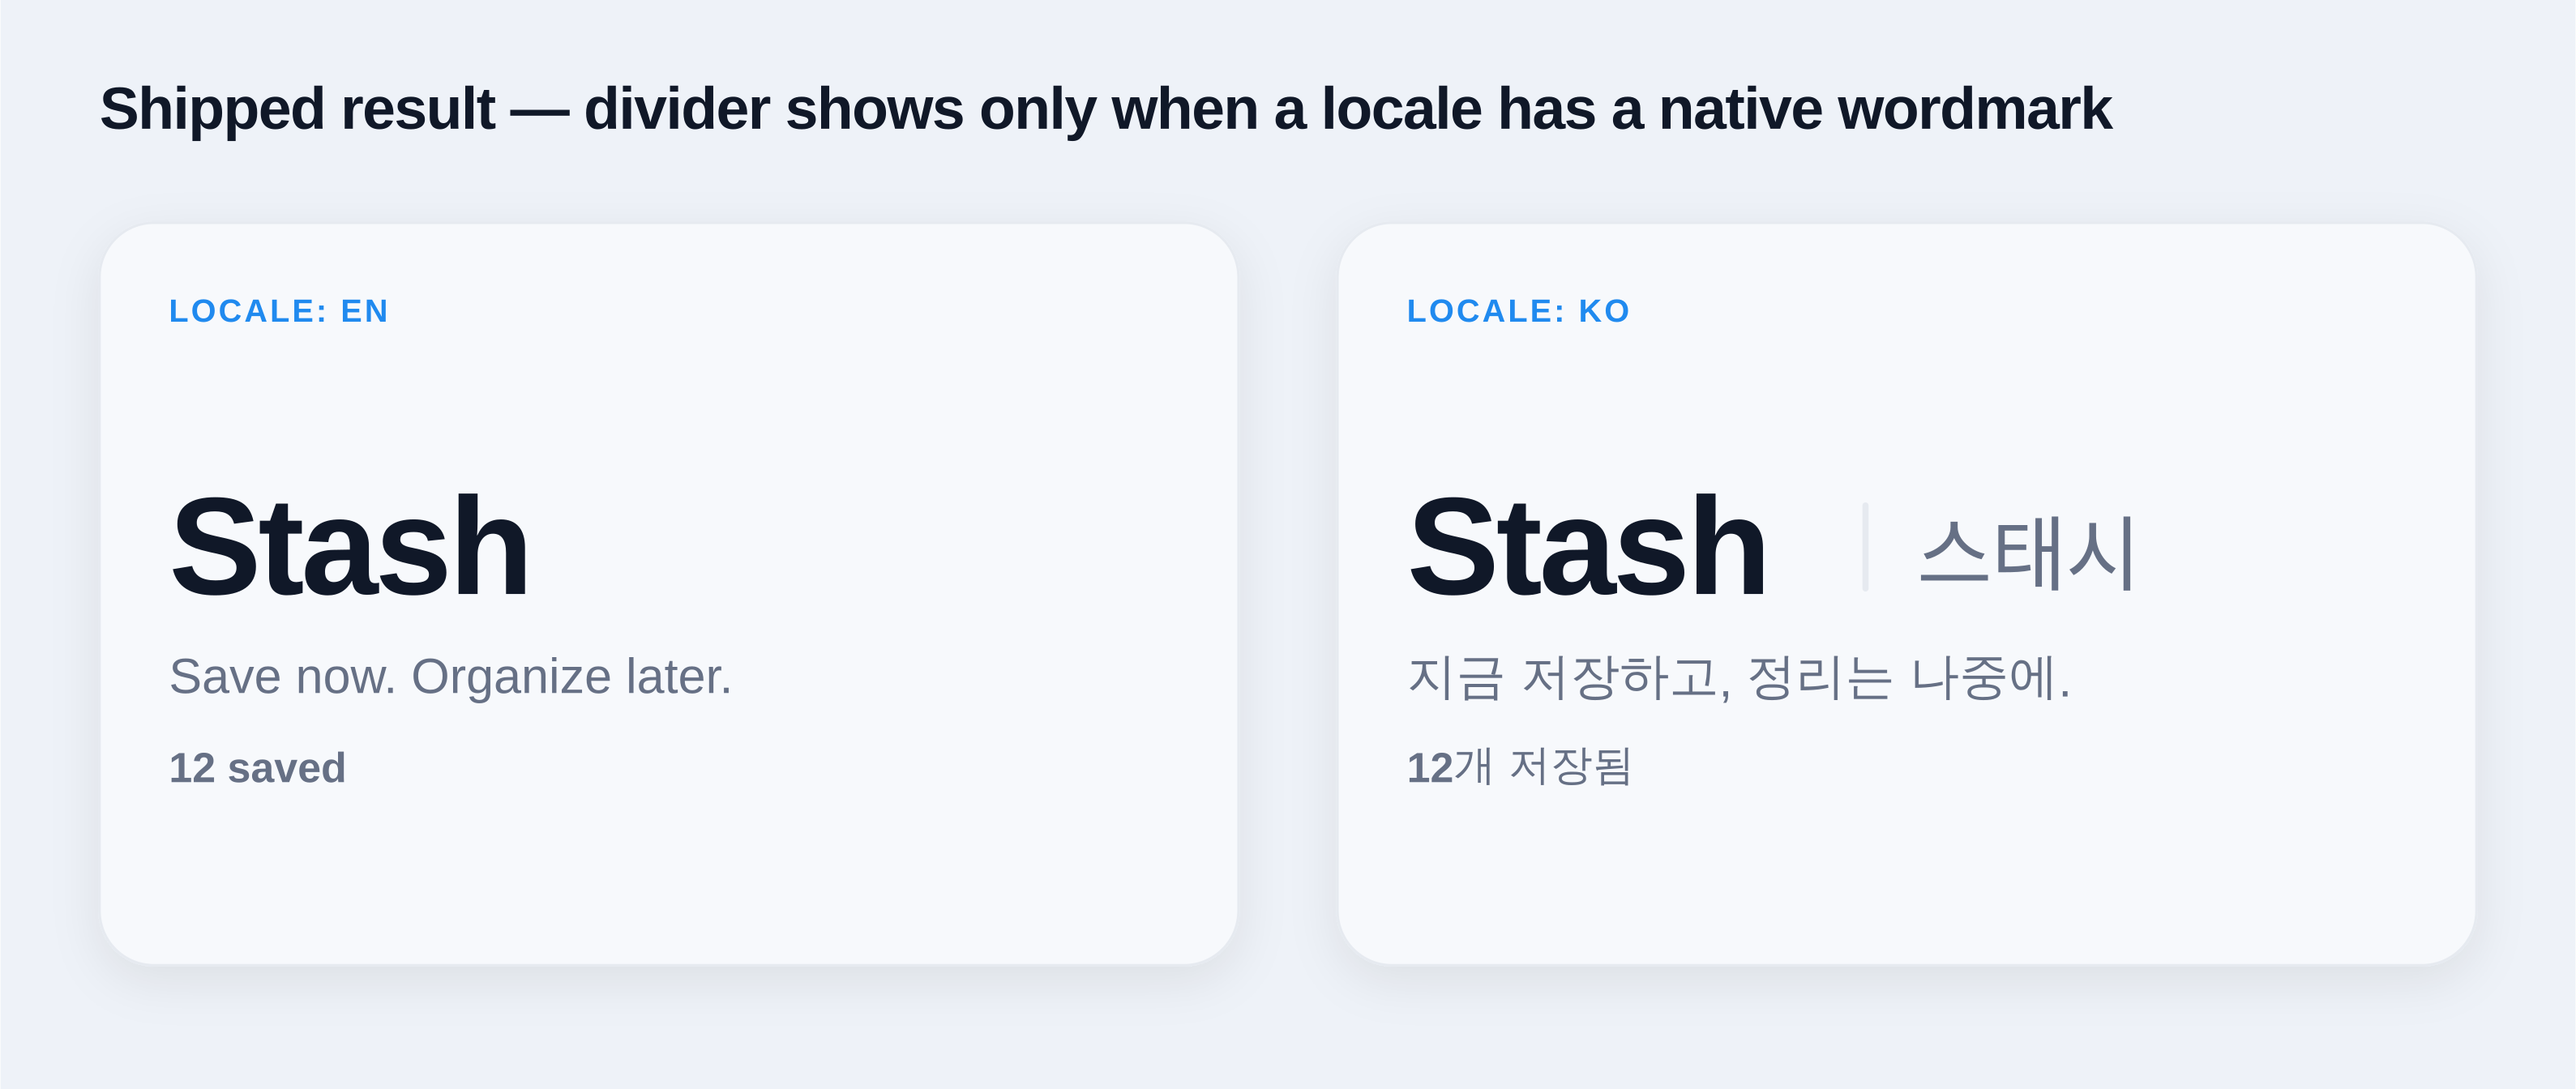
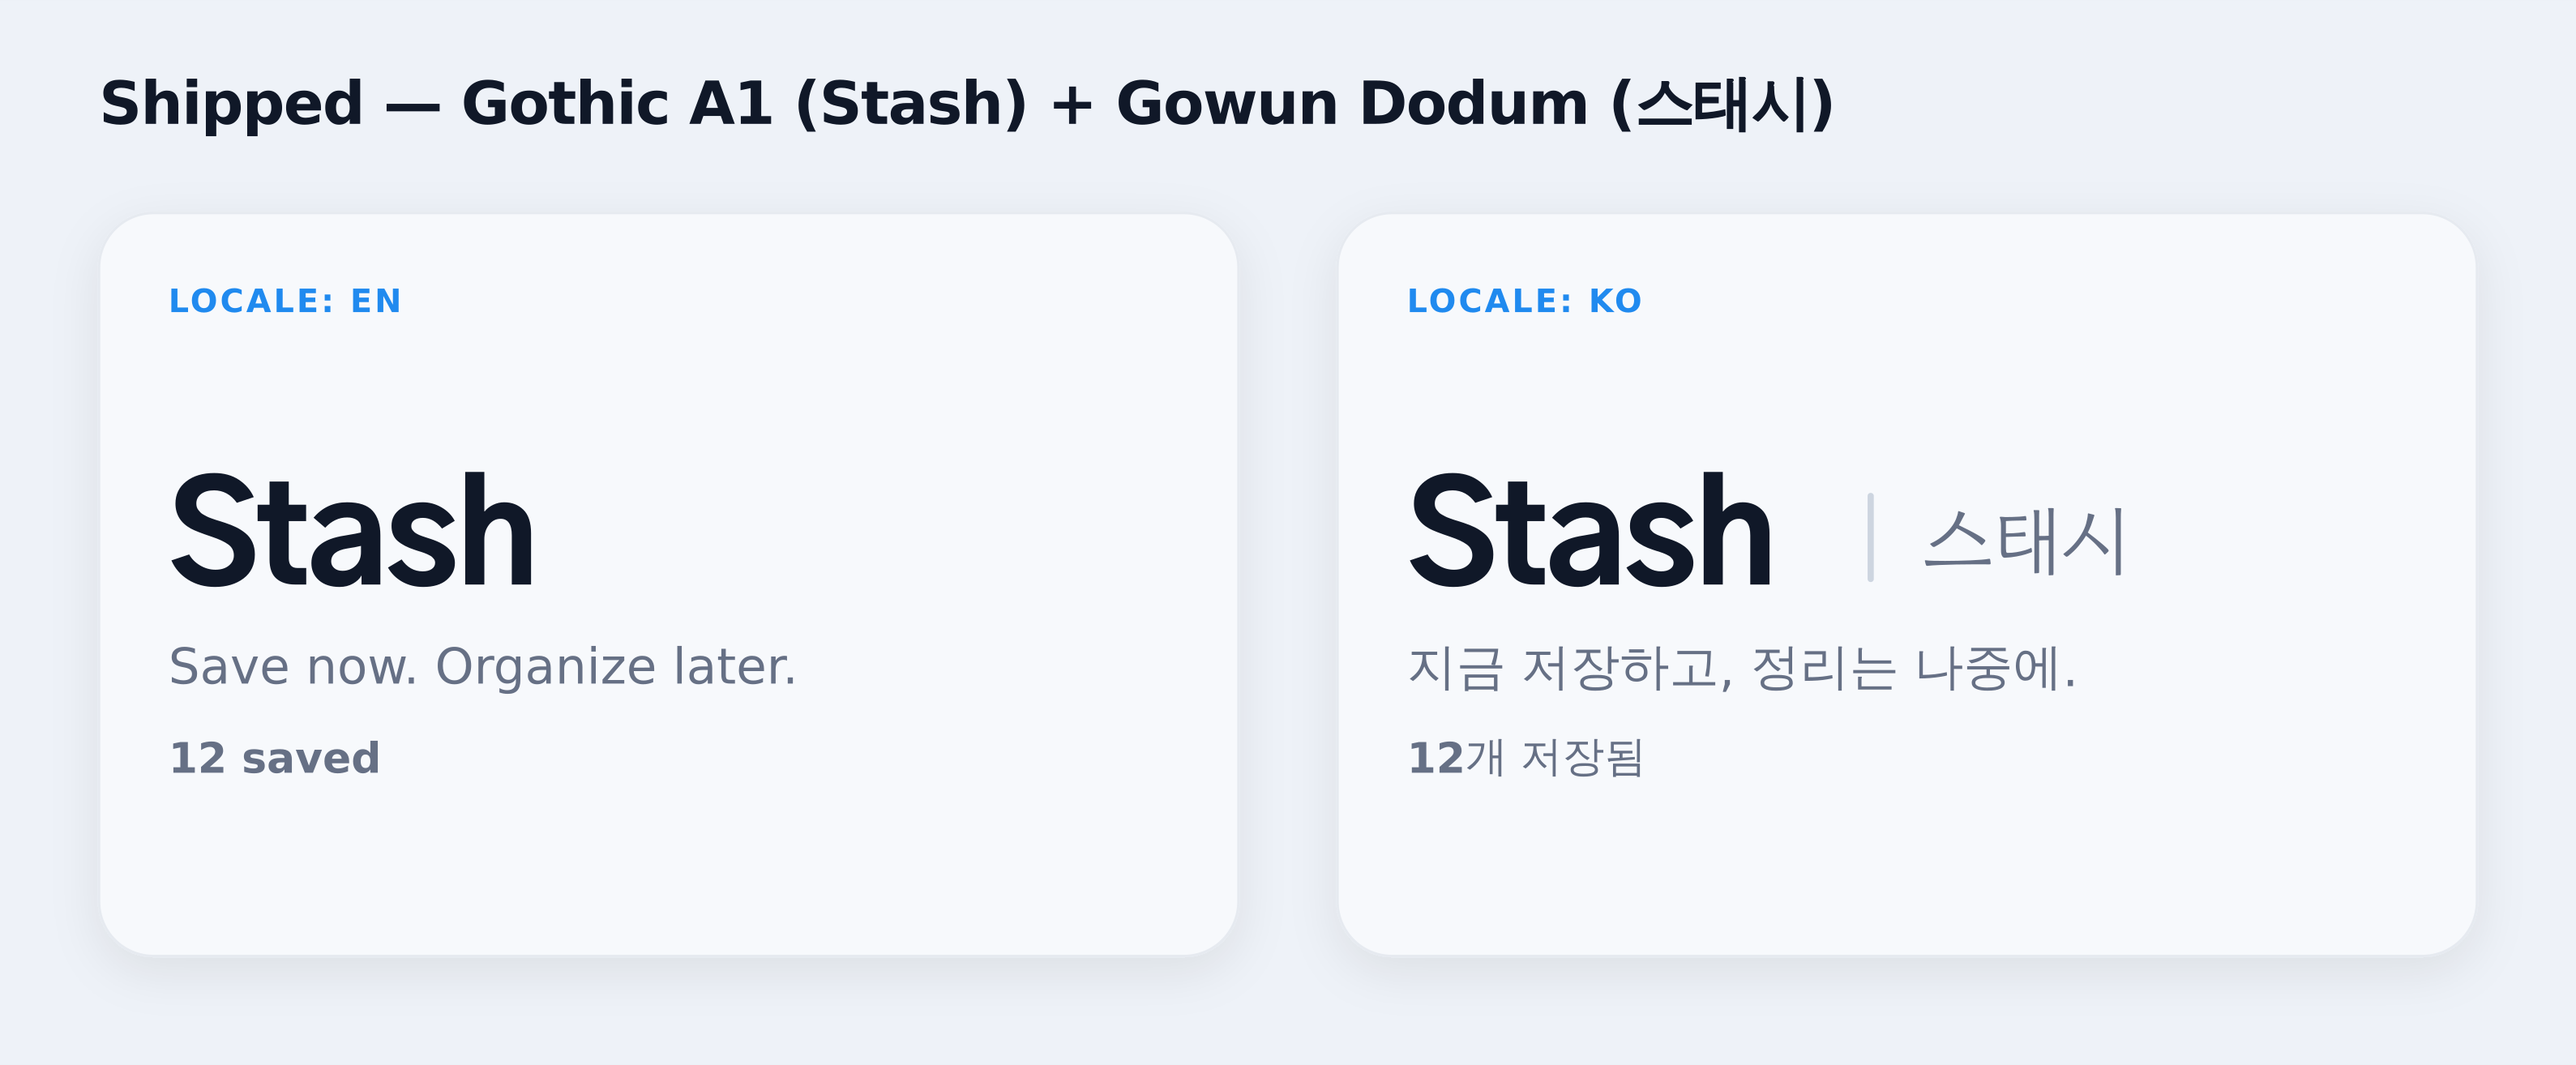
feat(inbox): set hero wordmark in Gothic A1 + Gowun Dodum
Load Gothic A1 (ExtraBold/Bold) and Gowun Dodum via @expo-google-fonts and
expo-font, holding the splash until they resolve (a load error still
releases it and falls back to the system font). Apply Gothic A1 to the
'Stash' title and Gowun Dodum to the native wordmark (스태시).

Claude-Session: https://claude.ai/code/session_01A5ANPdT1nWVnfyiCgXU53Q

diff --git a/apps/mobile/src/app/_layout.tsx b/apps/mobile/src/app/_layout.tsx
@@ -1,6 +1,11 @@
+import { GothicA1_700Bold, GothicA1_800ExtraBold } from '@expo-google-fonts/gothic-a1';
+import { GowunDodum_400Regular } from '@expo-google-fonts/gowun-dodum';
+import { useFonts } from 'expo-font';
 import { DarkTheme, DefaultTheme, Stack, ThemeProvider } from 'expo-router';
+import * as SplashScreen from 'expo-splash-screen';
 import { StatusBar } from 'expo-status-bar';
 import { ShareIntentProvider } from 'expo-share-intent';
+import { useEffect } from 'react';
 import { useColorScheme } from 'react-native';
 import { SafeAreaProvider } from 'react-native-safe-area-context';
 
@@ -20,6 +25,10 @@ installConsoleCapture();
 // Start crash & error monitoring as early as possible — a no-op until a DSN is
 // configured (see observability/sentry-config).
 initSentry();
+
+// Hold the native splash until the hero wordmark fonts are ready, so the title
+// never flashes from the system font to Gothic A1 / Gowun Dodum on first paint.
+SplashScreen.preventAutoHideAsync().catch(() => {});
 
 // The navigator lives in its own component so it can read the active locale
 // from `I18nProvider` (a hook can't run in the same component that mounts the
@@ -43,6 +52,27 @@ function RootStack() {
 
 function RootLayout() {
   const colorScheme = useColorScheme();
+
+  // Hero wordmark fonts: Gothic A1 for "Stash", Gowun Dodum for the native
+  // wordmark (e.g. 스태시). Loaded once at the root and referenced by family
+  // name in the Inbox hero.
+  const [fontsLoaded, fontError] = useFonts({
+    GothicA1_800ExtraBold,
+    GothicA1_700Bold,
+    GowunDodum_400Regular,
+  });
+
+  // Reveal the app once fonts resolve. A load *error* still releases the splash
+  // (and falls back to the system font) so a font hiccup can never brick boot.
+  useEffect(() => {
+    if (fontsLoaded || fontError) {
+      SplashScreen.hideAsync().catch(() => {});
+    }
+  }, [fontsLoaded, fontError]);
+
+  if (!fontsLoaded && !fontError) {
+    return null;
+  }
 
   return (
     <SafeAreaProvider>

diff --git a/apps/mobile/src/app/index.tsx b/apps/mobile/src/app/index.tsx
@@ -931,8 +931,8 @@ const styles = StyleSheet.create({
     alignItems: 'baseline',
   },
   heroTitle: {
+    fontFamily: 'GothicA1_800ExtraBold',
     fontSize: 34,
-    fontWeight: '800',
     letterSpacing: -0.8,
   },
   heroTitleDivider: {
@@ -942,8 +942,8 @@ const styles = StyleSheet.create({
     marginHorizontal: 12,
   },
   heroTitleLocal: {
+    fontFamily: 'GowunDodum_400Regular',
     fontSize: 20,
-    fontWeight: '500',
     letterSpacing: -0.2,
   },
   heroSubtitle: {
